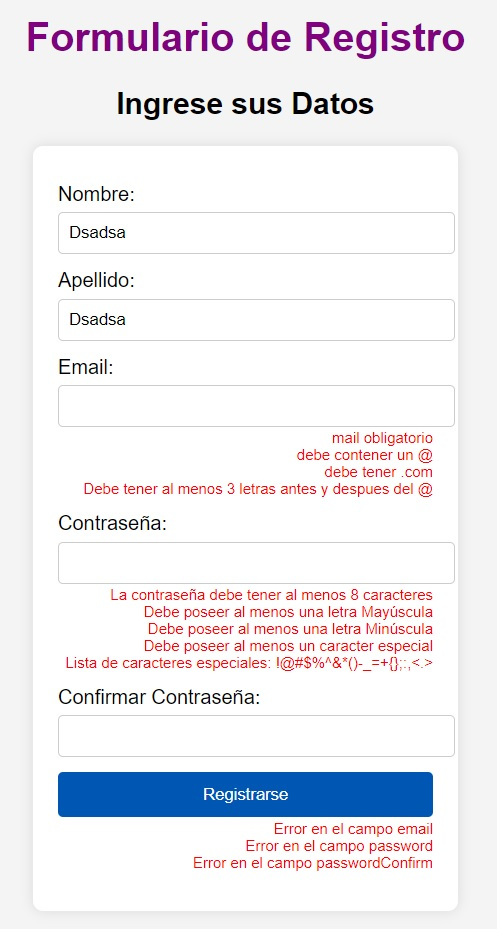
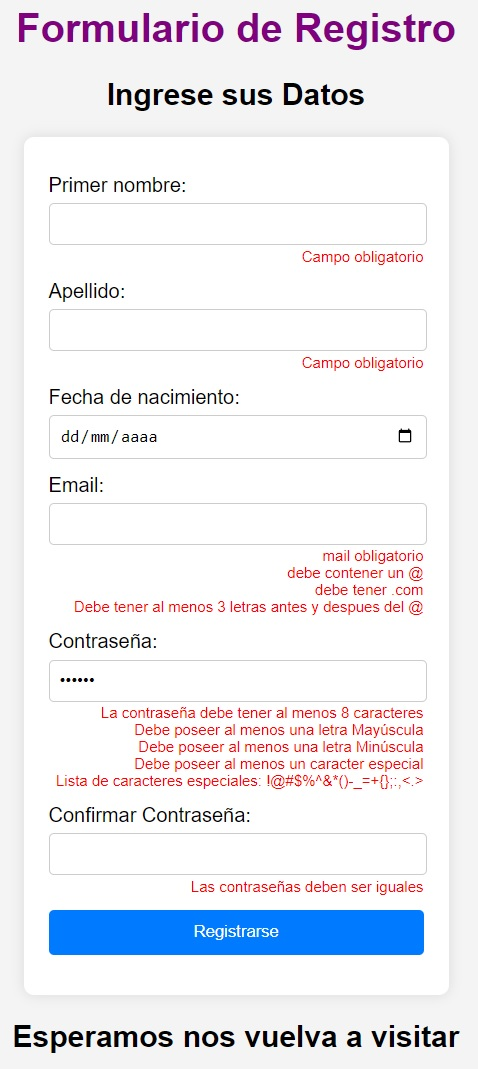
se actualizo imagen del README.md

diff --git a/index.js b/index.js
@@ -51,19 +51,20 @@ function validation(element, regex, errorMsg = 'Campo obligatorio') {
 //---------------   
 
 elInputFirstname.addEventListener('blur', function () {
-  validation(this, /^[A-Z][a-z]{2,}$/)
+  validation(this, /^[A-ZÁÉÍÓÚÜÑ]{1}[a-záéíóúüñ]{1,}$/)
   //Queremos manejar las validaciones del input mediante expresiones regulares
   //Que al menos tenga 3 caracteres
   //Que la primer letra este en mayuscula
   //Que no contenga espacios
   //Que no contenga simbolos ni numeros
+  //Acepta letra ñ y vocales con acento
 })
 
 //-------------
 //   Surname   
 //-------------
 elInputSurname.addEventListener('blur', function () {
-  validation(this, /^[A-Z][a-z]{2,}$/)
+  validation(this, /^[A-ZÁÉÍÓÚÜÑ]{1}[a-záéíóúüñ]{1,}$/)
 })
 
 //------------

diff --git a/index.html b/index.html
@@ -22,7 +22,7 @@
         <h2 id="formTitle">Ingrese sus Datos</h2>
         <form id="registroForm">
             <div>
-                <label for="firstname">Nombre:</label>
+                <label for="firstname">Primer nombre:</label>
                 <input type="text" id="firstname" name="firstname" required autofocus>
                 <p class="errMsg"></p>
             </div>
